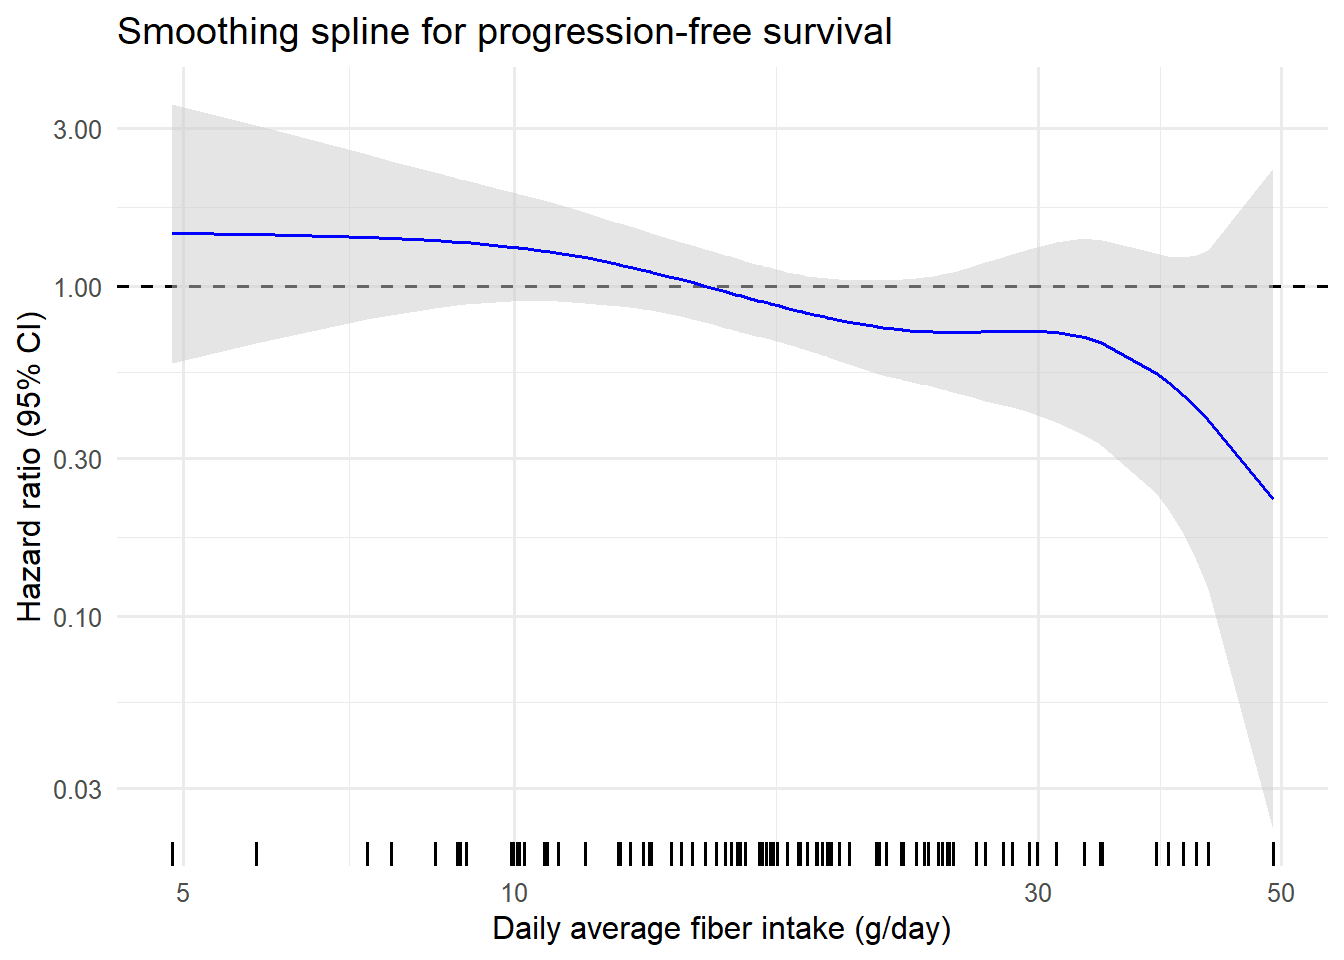
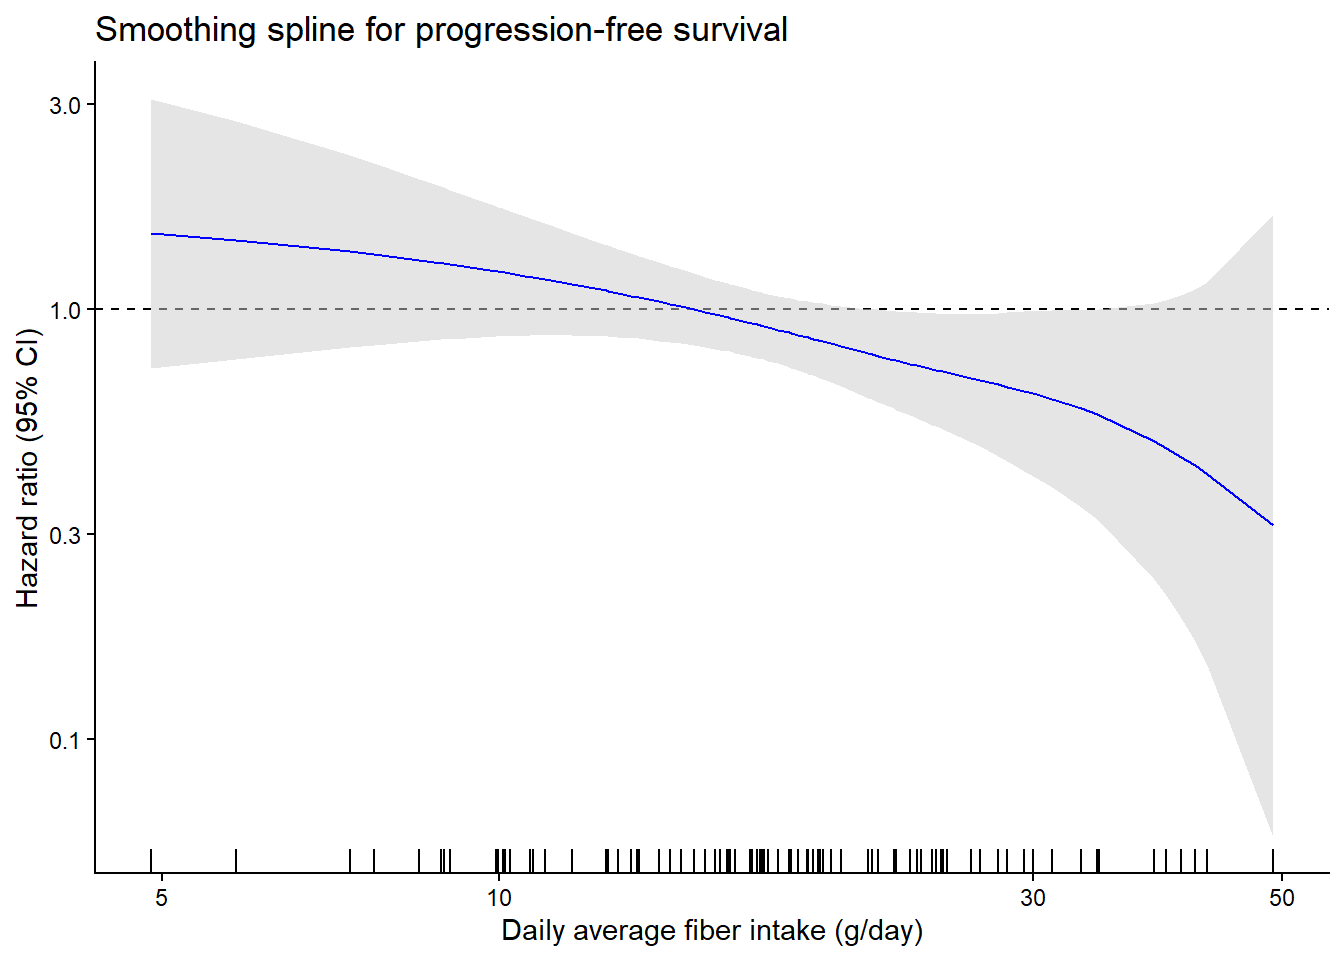
fix spline

diff --git a/docs/extended_data_figure_1_pfs_fiber_disease_type.html b/docs/extended_data_figure_1_pfs_fiber_disease_type.html
@@ -1003,12 +1003,12 @@ Likelihood ratio test= 4.46  on 1 df,   p=0.03
 Wald test            = 4  on 1 df,   p=0.05
 Score (logrank) test = 4.04  on 1 df,   p=0.04</code></pre>
 </div>
-<div class="sourceCode cell-code" id="cb59"><pre class="sourceCode r code-with-copy"><code class="sourceCode r"><span id="cb59-1"><a href="#cb59-1" aria-hidden="true" tabindex="-1"></a>p<span class="ot">&lt;-</span> <span class="fu">makeSpline</span>(AllMetdataFiber, AllMetdataFiber<span class="sc">$</span>pfs_mo, AllMetdataFiber<span class="sc">$</span>pod_status, </span>
+<div class="sourceCode cell-code" id="cb59"><pre class="sourceCode r code-with-copy"><code class="sourceCode r"><span id="cb59-1"><a href="#cb59-1" aria-hidden="true" tabindex="-1"></a><span class="fu">makeSpline</span>(AllMetdataFiber, AllMetdataFiber<span class="sc">$</span>pfs_mo, AllMetdataFiber<span class="sc">$</span>pod_status, </span>
 <span id="cb59-2"><a href="#cb59-2" aria-hidden="true" tabindex="-1"></a>           AllMetdataFiber<span class="sc">$</span>gram_fiber_per_Kcal,</span>
 <span id="cb59-3"><a href="#cb59-3" aria-hidden="true" tabindex="-1"></a>           <span class="at">xlab =</span> <span class="st">"(Average daily grams of fiber)/(Average daily kilocalories)"</span>, <span class="at">ylab=</span><span class="st">"Hazard ratio (95% CI)"</span>,</span>
 <span id="cb59-4"><a href="#cb59-4" aria-hidden="true" tabindex="-1"></a>           <span class="at">title=</span><span class="st">"Smoothing spline for progression-free survival"</span>,</span>
-<span id="cb59-5"><a href="#cb59-5" aria-hidden="true" tabindex="-1"></a>           <span class="at">knots=</span><span class="dv">3</span>)</span>
-<span id="cb59-6"><a href="#cb59-6" aria-hidden="true" tabindex="-1"></a>p <span class="sc">+</span> </span>
+<span id="cb59-5"><a href="#cb59-5" aria-hidden="true" tabindex="-1"></a>           <span class="at">knots=</span><span class="dv">3</span>) <span class="sc">+</span></span>
+<span id="cb59-6"><a href="#cb59-6" aria-hidden="true" tabindex="-1"></a>  <span class="fu">scale_x_continuous</span>(<span class="at">breaks =</span> <span class="fu">c</span>(<span class="dv">5</span>,<span class="dv">10</span>,<span class="dv">15</span>,<span class="dv">20</span>)) <span class="sc">+</span> </span>
 <span id="cb59-7"><a href="#cb59-7" aria-hidden="true" tabindex="-1"></a> <span class="fu">theme</span>(</span>
 <span id="cb59-8"><a href="#cb59-8" aria-hidden="true" tabindex="-1"></a>     <span class="at">axis.text =</span> <span class="fu">element_text</span>(<span class="at">size =</span> <span class="dv">18</span>), <span class="co"># Adjust axis labels</span></span>
 <span id="cb59-9"><a href="#cb59-9" aria-hidden="true" tabindex="-1"></a>     <span class="at">axis.title =</span> <span class="fu">element_text</span>(<span class="at">size =</span> <span class="dv">20</span>), <span class="co"># Adjust axis titles</span></span>

diff --git a/docs/figure_1_hazard_ratio_fiber.html b/docs/figure_1_hazard_ratio_fiber.html
@@ -302,7 +302,7 @@ pre > code.sourceCode > span > a:first-child::before { text-decoration: underlin
 <span id="cb1-3"><a href="#cb1-3" aria-hidden="true" tabindex="-1"></a>           <span class="at">xlab =</span> <span class="st">"Daily average fiber intake (g/day)"</span>, <span class="at">ylab=</span><span class="st">"Hazard ratio (95% CI)"</span>,</span>
 <span id="cb1-4"><a href="#cb1-4" aria-hidden="true" tabindex="-1"></a>           <span class="at">title=</span><span class="st">"Smoothing spline for progression-free survival"</span>,</span>
 <span id="cb1-5"><a href="#cb1-5" aria-hidden="true" tabindex="-1"></a>           <span class="at">knots=</span><span class="dv">2</span>,</span>
-<span id="cb1-6"><a href="#cb1-6" aria-hidden="true" tabindex="-1"></a>           <span class="at">centerpoint =</span> <span class="dv">15</span>)<span class="sc">+</span></span>
+<span id="cb1-6"><a href="#cb1-6" aria-hidden="true" tabindex="-1"></a>           <span class="at">centerpoint =</span> <span class="dv">15</span>) <span class="sc">+</span></span>
 <span id="cb1-7"><a href="#cb1-7" aria-hidden="true" tabindex="-1"></a>  <span class="fu">scale_x_log10</span>()</span></code><button title="Copy to Clipboard" class="code-copy-button"><i class="bi"></i></button></pre></div>
 <div class="cell-output-display">
 <div>
